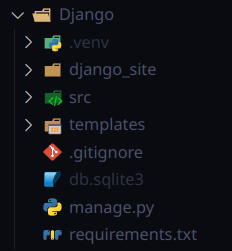
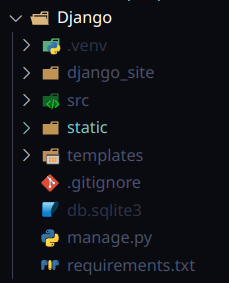
Modifed

diff --git a/tip.md b/tip.md
@@ -97,6 +97,10 @@ git push origin "название вашей ветки"
 
 `urls.py` - используется для определения `URL-адресов`, которые будут доступны в вашем `веб-приложении`. Он связывает конкретные `URL-пути` с соответствующими **представлениями** (`views`), которые обрабатывают **запросы** пользователей.
 
+### `static`
+
+Папка для статических файлов (фотки, стили и т.д)
+
 ### `templates`
 
 Шаблоны проекта.  
